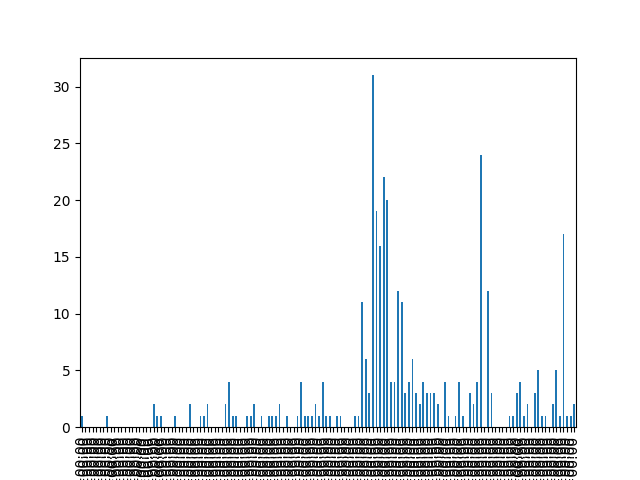
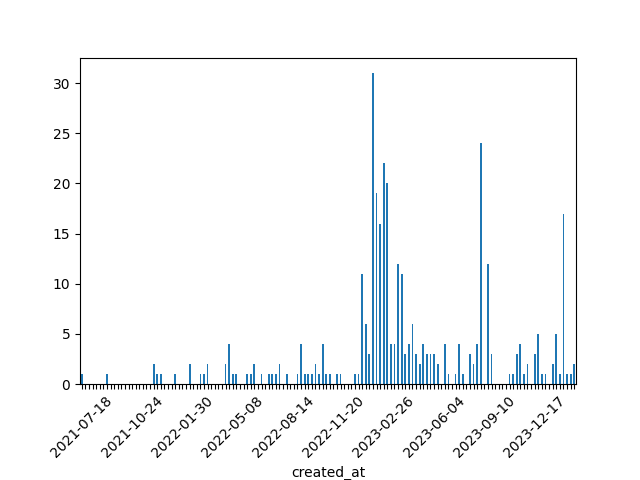
improve formatting for dates

diff --git a/issue_grapher/python/graph_results.py b/issue_grapher/python/graph_results.py
@@ -13,23 +13,26 @@ parser.add_argument('--issue')
 
 args = parser.parse_args()
 
+# Load the json containing the github issue data.
 dictionary = json.load(open(f'./logs/{args.issue}.json', 'r'))
 df = pandas.DataFrame(data=dictionary)
+
+# Cast created_at from string to pandas date and then group by week.
+# TODO: this might be offset by a week in the future.
 df['created_at']=pandas.to_datetime(df['created_at'])
-#df2 = df.groupby(by=df['created_at'].dt.date).count()
-#print(df2)
 df3 = df.groupby([pandas.Grouper(key='created_at', freq='W')]).count()
+
+fig, ax = plt.subplots()
 
 # Show date for at most 10 bars on x axis
 tick_step_size = round(len(df3['id']) / 10)
-
-# plot
-fig, ax = plt.subplots()
 df3['id'].plot(kind="bar", stacked=True, ax=ax)
 xLabels = ['']*len(df3['id'])
 xLabels[::tick_step_size] = [x.strftime("%Y-%m-%d") for x in df3['id'].index[::tick_step_size]]
-#ax.set_xticklabels([x.strftime("%Y-%m-%d") for x in df3['id'].index], rotation=45)
 ax.set_xticklabels(xLabels, rotation=45)
+
+# Add padding so the dates don't get cut off.
 plt.subplots_adjust(bottom=0.2)
+
+# Save to outputs folder.
 plt.savefig(f'./outputs/{args.issue}.png')
-print(len(df3['id']))
